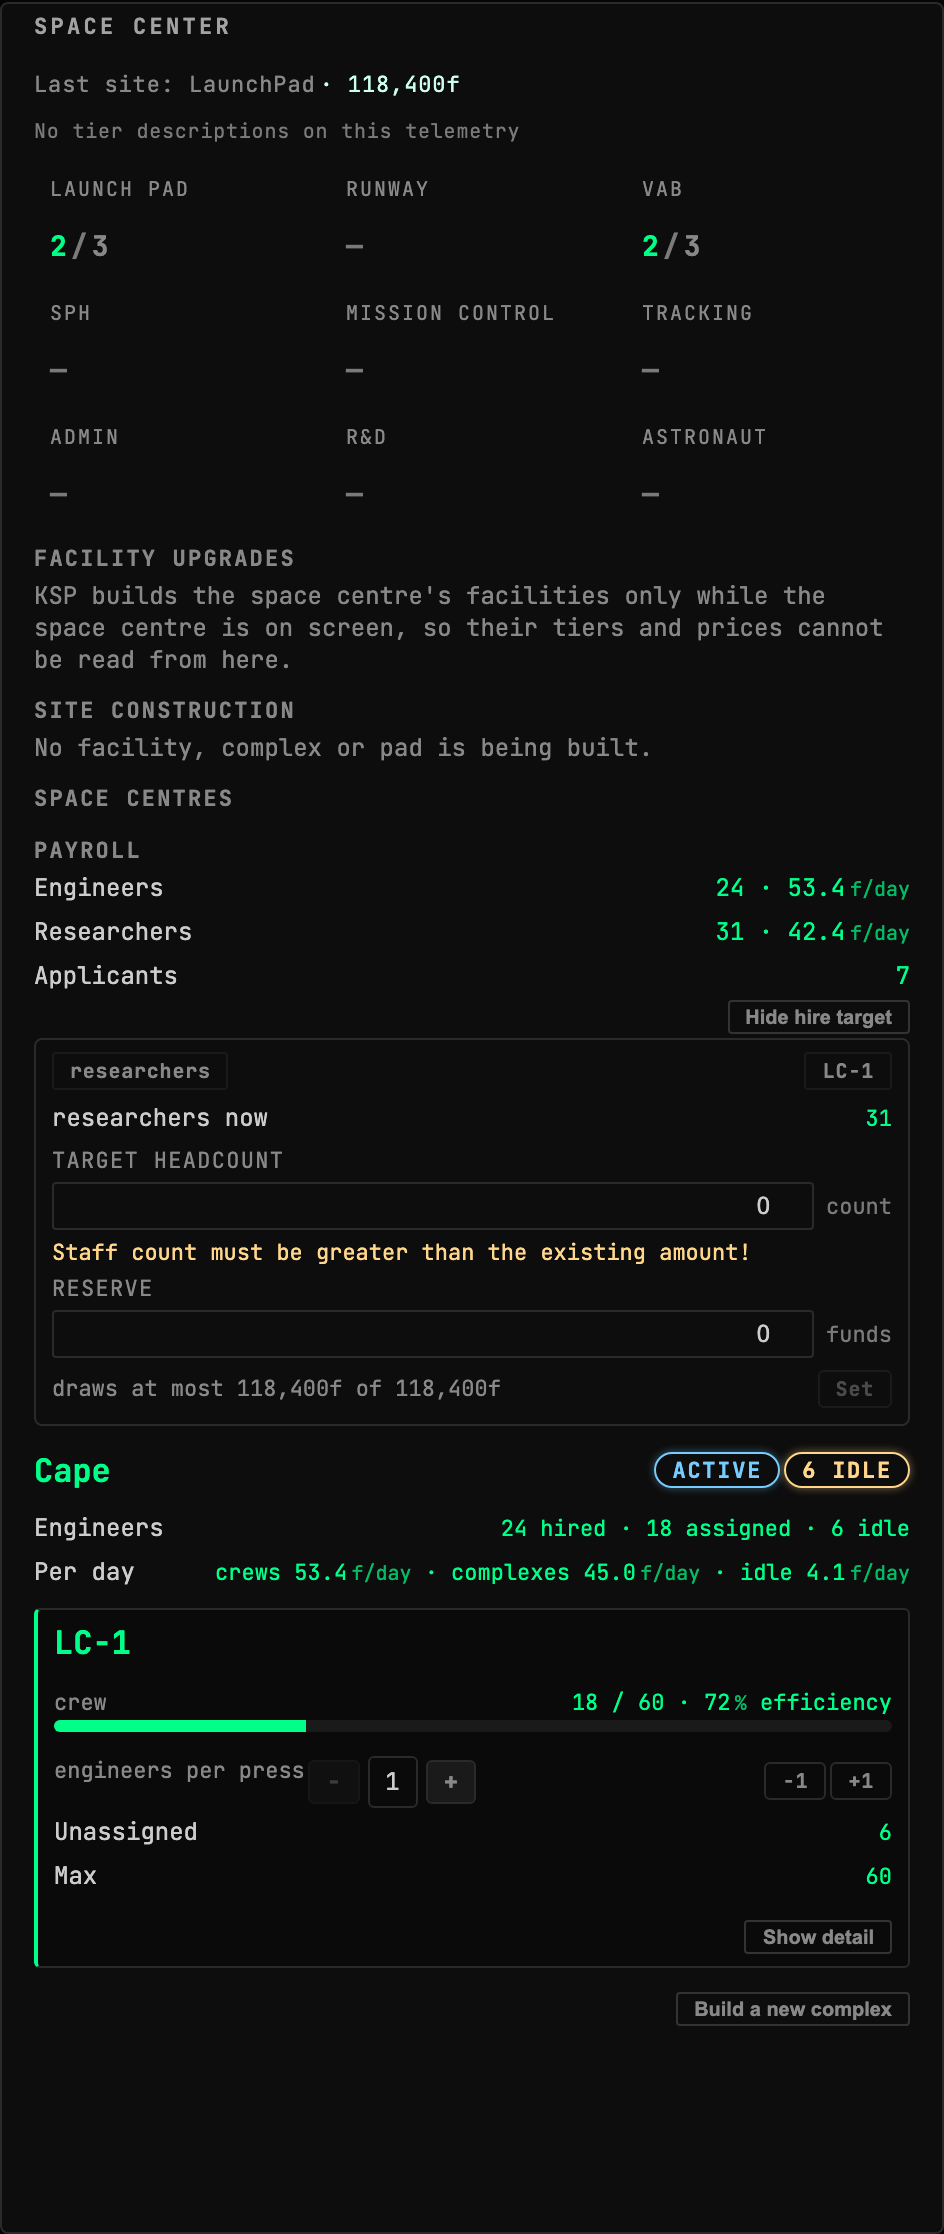
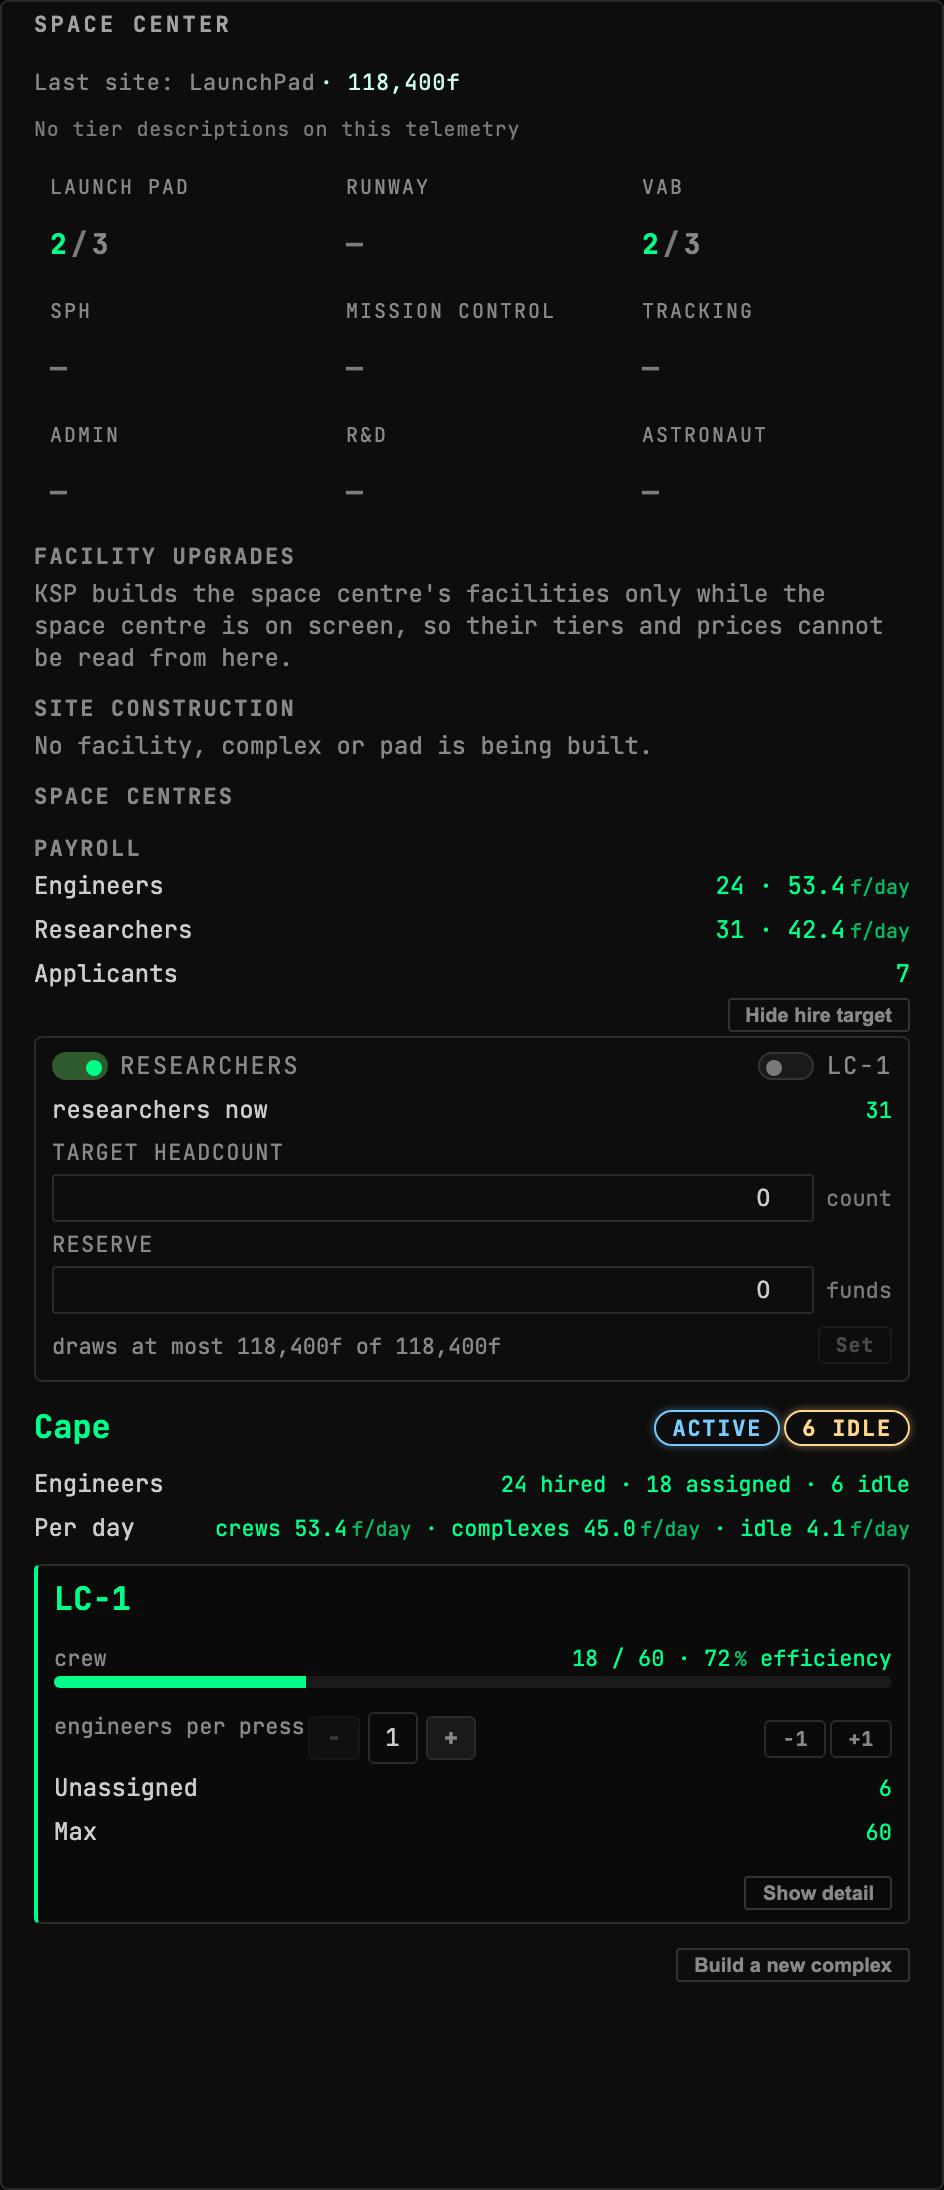
Take the additional-pad multiplier off the wire instead of assuming 0.5
A renovation reprices every pad the complex already has, so RP-1's
additional-pad multiplier is part of what it charges rather than a detail of
buying one. The transcription had it hard-coded at the shipped 0.5 with a doc
comment claiming the control refused a multi-pad complex when the wire
disagreed, which it did not do. `rp1.lcPricing.additionalPadCostMult` is
already carried, so it is read, and the quote is REFUSED rather than defaulted
when it has not arrived: a career whose setting has been retuned would
otherwise be quoted against a figure RP-1 does not use, and this transcription
exists to agree with RP-1 rather than with its own defaults. A one-pad complex
needs no multiplier at all and still gets a quote.

diff --git a/mod/GonogoRp1Uplink/client/src/KscComplexes/lcCost.ts b/mod/GonogoRp1Uplink/client/src/KscComplexes/lcCost.ts
@@ -1,3 +1,4 @@
+import { magnitudeOf } from "@ksp-gonogo/ui-kit";
 import type { Rp1LcPricing } from "../__generated__/contract";
 
 /**
@@ -164,6 +165,7 @@ export interface LcModifyQuote {
 export function quoteModifyComplex(
   next: LcSpec,
   current: LcCurrent,
+  pricing: Rp1LcPricing | undefined,
 ): LcModifyQuote | null {
   if (!sameResources(next.resources, current.resources)) {
     return null;
@@ -190,7 +192,19 @@ export function quoteModifyComplex(
 
     const pads = current.launchPadCount;
     if (pads > 1) {
-      padHalf *= 1 + (pads - 1) * ADDITIONAL_PAD_COST_MULT;
+      /*
+       * RP-1's own setting, off the wire rather than assumed: a renovation
+       * reprices every pad the complex already has, so a career whose
+       * additional-pad multiplier has been retuned would be quoted against the
+       * wrong one. Refused rather than defaulted when it has not arrived, on the
+       * same rule the resource half follows: a quote under its true cost is
+       * worse than no quote.
+       */
+      const mult = magnitudeOf(pricing?.additionalPadCostMult);
+      if (mult === null) {
+        return null;
+      }
+      padHalf *= 1 + (pads - 1) * mult;
     }
 
     if (
@@ -227,21 +241,6 @@ export function quoteModifyComplex(
 
   return { isDowngrade, total: padHalf + integrationHalf };
 }
-
-/**
- * RP-1's additional-pad multiplier.
- *
- * <para>Hard-coded rather than taken off `rp1.lcPricing`, and that is a
- * deliberate narrowing rather than an oversight: the wire's figure IS the one to
- * use for a pad purchase and this call site would need it too, but the pinned
- * cases this transcription is held to are generated at RP-1's shipped 0.5. A
- * quote drawn against a retuned setting would silently stop matching the figures
- * that keep it honest. The renovation control refuses to quote a multi-pad
- * complex when the wire disagrees with this, rather than quoting it wrong.</para>
- */
-const ADDITIONAL_PAD_COST_MULT = 0.5;
-
-export { ADDITIONAL_PAD_COST_MULT };
 
 /** Whether two resource sets are the same set with the same capacities. */
 function sameResources(

diff --git a/mod/GonogoRp1Uplink/client/src/KscComplexes/Modify.tsx b/mod/GonogoRp1Uplink/client/src/KscComplexes/Modify.tsx
@@ -12,7 +12,7 @@ import {
   UnitInput,
 } from "@ksp-gonogo/ui-kit";
 import { useState } from "react";
-import type { Rp1ComplexEntry } from "../__generated__/contract";
+import type { Rp1ComplexEntry, Rp1LcPricing } from "../__generated__/contract";
 import { type LcCurrent, type LcSpec, quoteModifyComplex } from "./lcCost";
 
 /** Renovate a complex into a new envelope. Must match `Rp1ComplexConstructionCommands.ModifyComplexCommand`. */
@@ -58,11 +58,18 @@ export function ModifyControl({
   complex,
   funds,
   handle,
+  pricing,
 }: Readonly<{
   complex: Rp1ComplexEntry;
   /** The career balance, for the covers-it reading only. Absent means say nothing. */
   funds: number | null;
   handle: Parameters<typeof CommandButton>[0]["handle"];
+  /**
+   * RP-1's own pricing settings. Needed for the additional-pad multiplier, which
+   * a renovation applies to every pad the complex already has; the quote is
+   * refused rather than defaulted without it.
+   */
+  pricing: Rp1LcPricing | undefined;
 }>) {
   const lcId = complex.lcId;
   const capacities = complex.resourceCapacities;
@@ -76,6 +83,7 @@ export function ModifyControl({
       funds={funds}
       handle={handle}
       lcId={lcId}
+      pricing={pricing}
     />
   );
 }
@@ -98,12 +106,14 @@ function ModifyForm({
   funds,
   handle,
   lcId,
+  pricing,
 }: Readonly<{
   capacities: { [key: string]: number };
   complex: Rp1ComplexEntry;
   funds: number | null;
   handle: Parameters<typeof CommandButton>[0]["handle"];
   lcId: string;
+  pricing: Rp1LcPricing | undefined;
 }>) {
   const isHangar = complex.lcType === "Hangar";
   const name = complex.name ?? NULL_DISPLAY;
@@ -142,7 +152,7 @@ function ModifyForm({
     sizeMaxWidth: currentWidth,
   };
 
-  const quote = quoteModifyComplex(nextSpec, current);
+  const quote = quoteModifyComplex(nextSpec, current, pricing);
   const engineers = magnitudeOf(complex.engineers) ?? 0;
   const short = funds !== null && quote !== null && funds < quote.total;
 

diff --git a/mod/GonogoRp1Uplink/client/src/KscComplexes/lcCost.test.ts b/mod/GonogoRp1Uplink/client/src/KscComplexes/lcCost.test.ts
@@ -169,6 +169,8 @@ describe("quoting a renovation of a complex the career has", () => {
         sizeMaxHeight: c.sizeMaxHeight,
         sizeMaxWidth: c.sizeMaxWidth,
       },
+      // RP-1's shipped 0.5, which is what the cases were generated at.
+      { additionalPadCostMult: value("ratio", 0.5) },
     );
 
     expect(quote).not.toBeNull();
@@ -232,7 +234,43 @@ describe("quoting a renovation of a complex the career has", () => {
           massOrig: 100,
           resources: new Map([["Kerosene", 1000]]),
         },
+        { additionalPadCostMult: value("ratio", 0.5) },
       ),
     ).toBeNull();
+  });
+
+  it("refuses a multi-pad complex until RP-1 has said what an extra pad costs", () => {
+    /*
+     * A renovation reprices every pad the complex already has, so the
+     * additional-pad multiplier is part of the price rather than a detail of
+     * buying one. Absent is not 0.5: a career whose setting has been retuned
+     * would be quoted against a figure RP-1 does not use, and this transcription
+     * exists to agree with RP-1 rather than with its own defaults.
+     */
+    const geometry = {
+      humanRated: false,
+      isHangar: false,
+      resources: new Map<string, number>(),
+      sizeMaxDepth: 10,
+      sizeMaxHeight: 20,
+      sizeMaxWidth: 10,
+    };
+    const current = { ...geometry, massMax: 100, massOrig: 100 };
+
+    expect(
+      quoteModifyComplex(
+        { ...geometry, massMax: 180 },
+        { ...current, launchPadCount: 2 },
+        {},
+      ),
+    ).toBeNull();
+    // One pad needs no multiplier at all, so the same career still gets a quote.
+    expect(
+      quoteModifyComplex(
+        { ...geometry, massMax: 180 },
+        { ...current, launchPadCount: 1 },
+        {},
+      ),
+    ).not.toBeNull();
   });
 });

diff --git a/mod/GonogoRp1Uplink/client/src/KscComplexes/ComplexCard.tsx b/mod/GonogoRp1Uplink/client/src/KscComplexes/ComplexCard.tsx
@@ -19,6 +19,7 @@ import {
 import { useState } from "react";
 import type {
   Rp1ComplexEntry,
+  Rp1LcPricing,
   Rp1PadEntry,
   Rp1RushTerms,
 } from "../__generated__/contract";
@@ -56,6 +57,7 @@ export function ComplexCard({
   funds,
   modify,
   newPad,
+  pricing,
   renameComplex,
   renamePad,
 }: Readonly<{
@@ -75,6 +77,8 @@ export function ComplexCard({
   funds: number | null;
   modify: Parameters<typeof CommandButton>[0]["handle"];
   newPad: Parameters<typeof CommandButton>[0]["handle"];
+  /** RP-1's pricing settings, for the renovation quote. */
+  pricing: Rp1LcPricing | undefined;
   renameComplex: Parameters<typeof CommandButton>[0]["handle"];
   renamePad: Parameters<typeof CommandButton>[0]["handle"];
 }>) {
@@ -180,7 +184,12 @@ export function ComplexCard({
             {/* Immediately under the envelope and the costs, which are what a
                 renovation changes and what it is priced against. Above the
                 dismantle, because it is the reversible one of the two. */}
-            <ModifyControl complex={complex} funds={funds} handle={modify} />
+            <ModifyControl
+              complex={complex}
+              funds={funds}
+              handle={modify}
+              pricing={pricing}
+            />
 
             <DismantleControl
               complex={complex}

diff --git a/mod/GonogoRp1Uplink/client/src/KscComplexes/Centre.tsx b/mod/GonogoRp1Uplink/client/src/KscComplexes/Centre.tsx
@@ -16,6 +16,7 @@ import {
 import type {
   Rp1CentreEntry,
   Rp1ComplexEntry,
+  Rp1LcPricing,
   Rp1PadEntry,
   Rp1RushTerms,
 } from "../__generated__/contract";
@@ -50,6 +51,7 @@ export function Centre({
   funds,
   newPad,
   modify,
+  pricing,
   renameComplex,
   renamePad,
 }: Readonly<{
@@ -68,6 +70,8 @@ export function Centre({
   newPad: Parameters<typeof CommandButton>[0]["handle"];
   /** Renovate a complex, threaded to each card. */
   modify: Parameters<typeof CommandButton>[0]["handle"];
+  /** RP-1's pricing settings, threaded to each card for the renovation quote. */
+  pricing: Rp1LcPricing | undefined;
   renameComplex: Parameters<typeof CommandButton>[0]["handle"];
   renamePad: Parameters<typeof CommandButton>[0]["handle"];
 }>) {
@@ -139,6 +143,7 @@ export function Centre({
               funds={funds}
               newPad={newPad}
               modify={modify}
+              pricing={pricing}
               renameComplex={renameComplex}
               renamePad={renamePad}
               key={complex.lcId ?? complex.name ?? ""}

diff --git a/mod/GonogoRp1Uplink/client/src/KscComplexes/modifyComplex.test.tsx b/mod/GonogoRp1Uplink/client/src/KscComplexes/modifyComplex.test.tsx
@@ -168,6 +168,24 @@ describe("renovating a launch complex", () => {
     expect(view.container.textContent).not.toMatch(/cannot afford/i);
   });
 
+  it("refuses to quote a two-pad complex until RP-1 has priced an extra pad", async () => {
+    const user = userEvent.setup();
+    const { view } = mount({ ...LC1, launchPadCount: 2 });
+    await openRenovation(user);
+
+    /*
+     * A renovation reprices every pad the complex already has, and the multiplier
+     * it does that by is RP-1's own setting on `rp1.lcPricing`, absent from this
+     * scene. Absent is not the shipped default: a career whose setting has been
+     * retuned would be quoted against a figure RP-1 does not use.
+     */
+    await waitFor(() => {
+      expect(view.container.textContent).toContain(
+        "no price: RP-1 has not said what this would cost",
+      );
+    });
+  });
+
   it("charges for a shrink and says so rather than implying a refund", async () => {
     const user = userEvent.setup();
     const { view } = mount({ ...LC1, massMax: 180, massOrig: 180 });

diff --git a/mod/GonogoRp1Uplink/client/src/KscComplexes/index.tsx b/mod/GonogoRp1Uplink/client/src/KscComplexes/index.tsx
@@ -189,6 +189,7 @@ export function KscComplexes() {
               funds={magnitudeOf(career?.economy?.funds)}
               modify={modifyComplex}
               newPad={newPad}
+              pricing={pricing}
               renameComplex={renameComplex}
               renamePad={renamePad}
               key={centre.kscName ?? ""}
